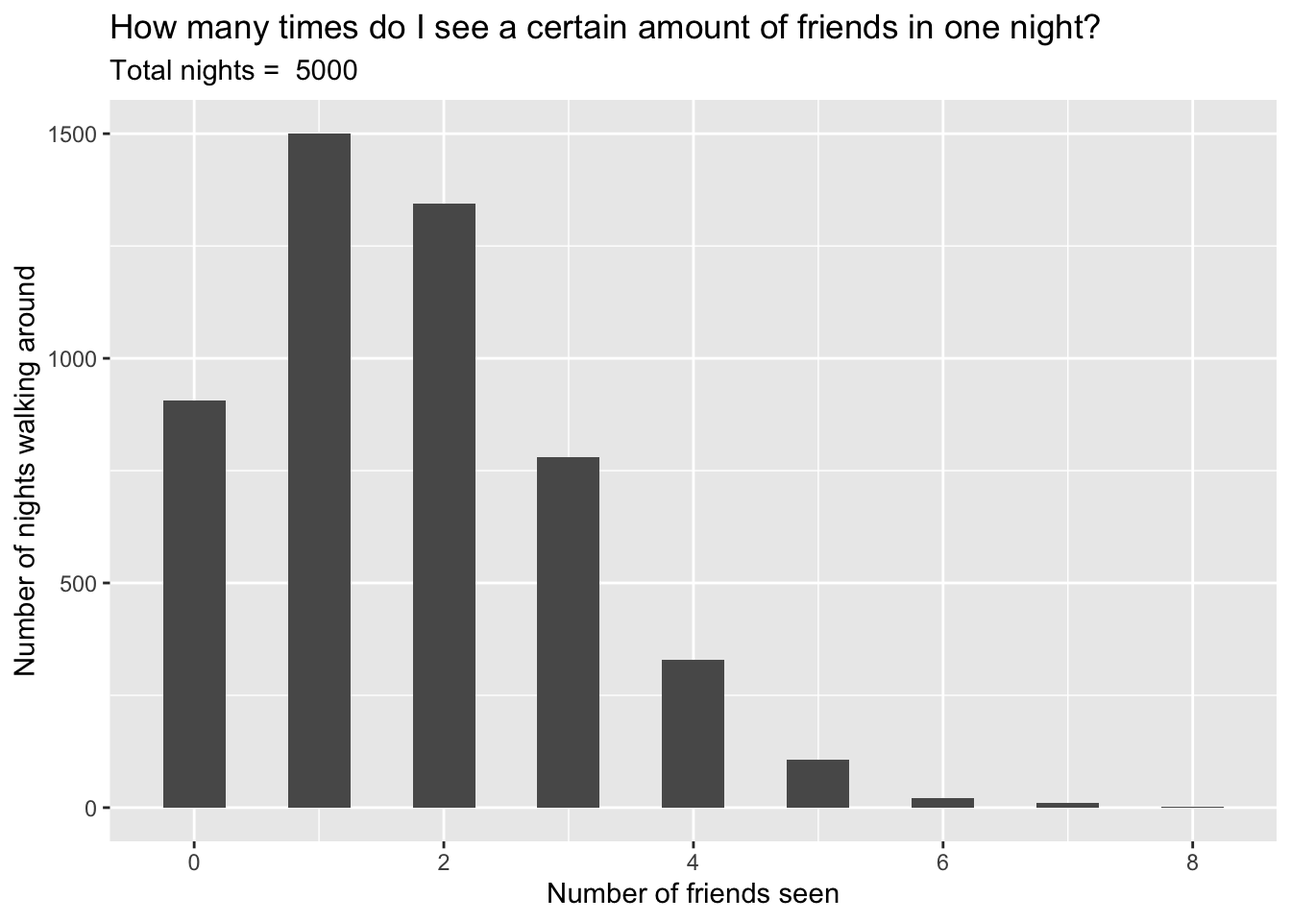
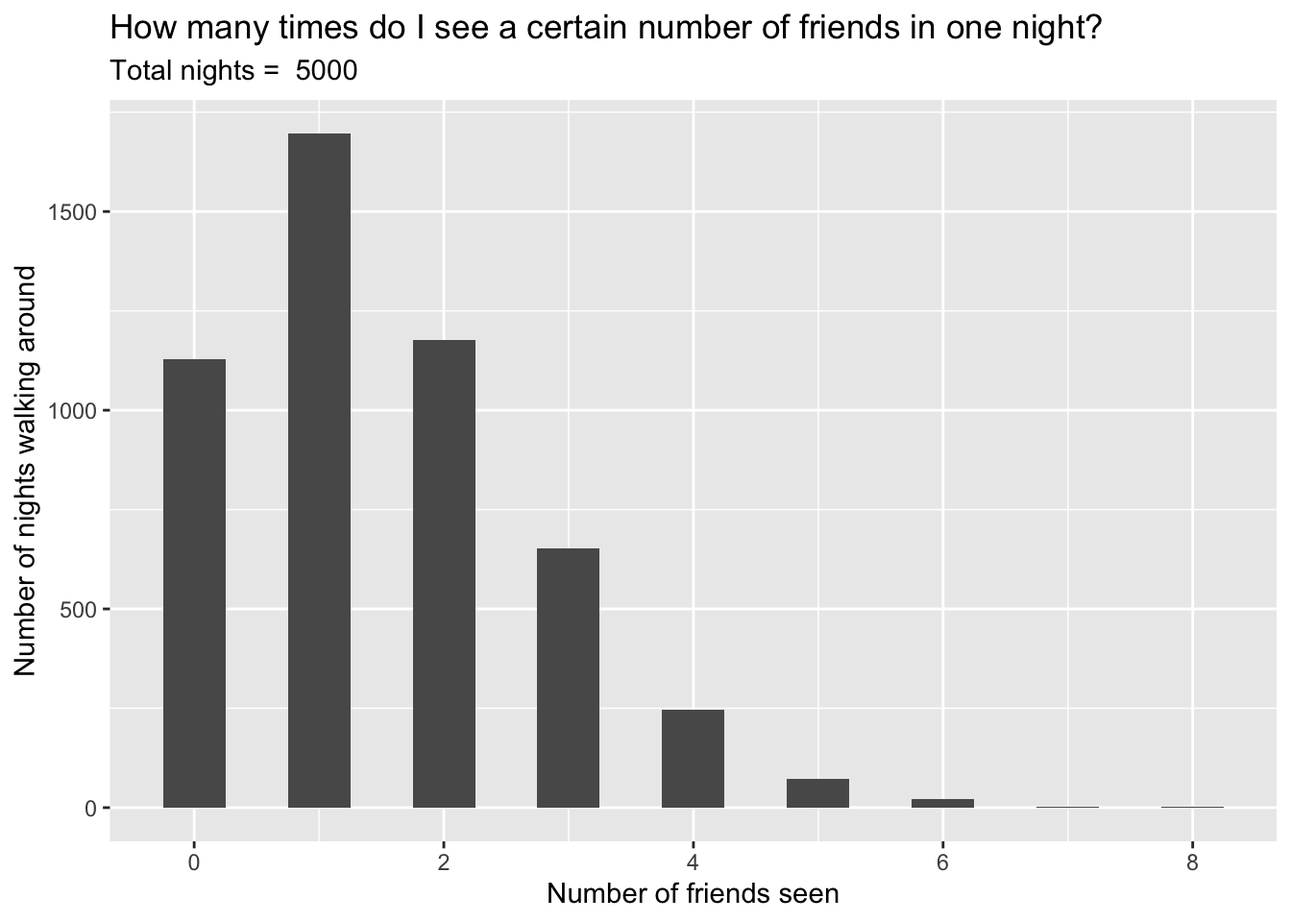
After first edits for project 6

diff --git a/docs/Ethics.html b/docs/Ethics.html
@@ -173,20 +173,20 @@ ul.task-list li input[type="checkbox"] {
 
 <ol type="1">
 <li><p>Describe the example / scenario as if to someone who is not at all familiar with the setting. In particular, it should be clear both what is the data science component and what is the ethical dilemma.</p>
-<p>Priyanga Gunarathne, Huaxia Rui and Abraham Seidmann published a paper that claimed that airline social media representatives respond less to Twitter users when they can see that their profile picture depicts a black person. Their methods involved taking all Tweets from 2014 to 2015 that mentioned any major US airline, running the Tweets’ profile pictures through an algorithm that returned either “no face”, or tells you what race each face is, creating and training a new algorithm that predicts people’s race based on their tweets, and measuring the response rate of customer service agents depending on the race depicted in the profile is or the race predicted by all of the past tweets. The authors found that people with profile pictures that had a black person in them were 12% less likely to receive customer service through Twitter than people who had other races in their profile picture. They also found that when the person did not have a profile picture, their race, as detected by their tweet-scraping algorithm, did not have an effect on the rate at which people received customer service through Twitter. Creating the algorithm that predicts people’s race based on their tweets creates an ethical dilemma, even though the authors of this study were using the algorithm to point out an explicit case of business-to-customer racism. Algorithms like these could also be used to discriminate against people or show people different prices for items based on their social media activity. The study concluded by suggesting that social media customer service teams hide people’s profile pictures when they are doing their jobs.</p></li>
+<p>Priyanga Gunarathne, Huaxia Rui and Abraham Seidmann published a paper that claimed that airline social media representatives respond less to Twitter users when they can see that their profile picture depicts a black person (Gunarathne, et al.&nbsp;2022). Their methods involved taking all Tweets from 2014 to 2015 that mentioned any major US airline, running the Tweets’ profile pictures through an algorithm that returned either “no face”, or tells you what race each face is, creating and training a new algorithm that predicts people’s race based on their tweets, and measuring the response rate of customer service agents depending on the race depicted in the profile is or the race predicted by all of the past tweets. The authors found that people with profile pictures that had a black person in them were 12% less likely to receive customer service through Twitter than people who had other races in their profile picture (Gunarathne, et al.&nbsp;2022). They also found that when the person did not have a profile picture, their race, as detected by their tweet-scraping algorithm, did not have an effect on the rate at which people received customer service through Twitter (Gunarathne, et al.&nbsp;2022). This analysis suggests that race-specific language did not influence customer service agents’ decisions to serve certain people, but profile pictures did. Creating the algorithm that predicts people’s race based on their tweets creates an ethical dilemma, even though the authors of this study were using the algorithm to point out an explicit case of business-to-customer racism. Algorithms like these could also be used to discriminate against people or show people different prices for items based on their social media activity. The study concluded by suggesting that social media customer service teams hide people’s profile pictures when responding to people on social media (Gunarathne, et al.&nbsp;2022).</p></li>
 <li><p>Respond to at least 4 of the items below (from the list of questions or the Data Values and Principles Manifesto). Four separate paragraphs that explain both the issue (e.g., consent) and how the issue played out in the data science example. Note: totally fine if there are items that were done <em>well</em> in your example.</p>
 <ul>
 <li><p>What is the permission structure for using the data? Was it followed?</p>
-<p>It is important that anyone using data from online follows the correct permission structures for collecting and publishing the data. Permission structures for using data are in place because they give everyone who is implicated in the data the privacy rights they believe they have when they publish data to a website. The authors collected data from Twitter from 2014 and 2015. Twitter’s 2014 Terms of Service document states that anyone who wants to use data from Twitter has to access it through Twitter’s API, and does not lay out any clear guidelines for what data can and cannot be used. Therefore, if the data was collected through Twitter’s API, then the authors did not break Twitter’s permission structure for collecting data. Furthermore, Twitter’s 2014 Terms of Service state that anything that you post on Twitter is “available to the rest of the world” (Twitter 2014). However, by the time this paper was submitted to be published, Twitter’s End User License Agreement stated that it was prohibited to “utilize the Twitter Content to derive or obtain non-public information of individual Twitter users” (Twitter 2020). This is exactly what these authors did by inferring people’s races by running their tweets through an algorithm.</p></li>
+<p>It is important that anyone using data from online follows the correct permission structures for collecting and publishing the data. Permission structures for using data are in place because they give everyone who is implicated in the data the privacy rights they believe they have when they publish data to a website. The authors collected data from Twitter from 2014 and 2015. Twitter’s 2014 Terms of Service document states that anyone who wants to use data from Twitter has to access it through Twitter’s API, and does not lay out any clear guidelines for what data can and cannot be used (Twitter 2014). Therefore, if the data was collected through Twitter’s API, then the authors did not break Twitter’s permission structure for collecting data. Furthermore, Twitter’s 2014 Terms of Service state that anything that you post on Twitter is “available to the rest of the world” (Twitter 2014). However, by the time this paper was submitted to be published, Twitter’s End User License Agreement stated that it was prohibited to “utilize the Twitter Content to derive or obtain non-public information of individual Twitter users” (Twitter 2020). This is exactly what these authors did by inferring people’s races by running their tweets through an algorithm.</p></li>
 <li><p>What was the data collection process? Were the observations collected ethically? Are there missing observations?</p>
-<p>In this study, the authors collected publically available Tweet and profile picture data from Twitter. The authors do not mention how they got this data, but if they were following Twitter’s terms of service, they would have had to get it using Twitter’s API. The way that these people collected this data could be seen as ethical since by posting to Twitter and making a Twitter account, any user is expected to know that anything they put there will be able to be seen by the entire world. In general, it is important to ethically collect data, since many people could be putting personal information into places and not know that it will be used for data analysis purposes. For example, collecting data from someone with the purposes of using it for a raffle and then using that data to create an email list could be problematic since the people who signed up with their personal information did not know they were signing up for promotional emails.</p></li>
+<p>In this study, the authors collected publically available Tweet and profile picture data from Twitter (Gunarathne, et al.&nbsp;2022). The authors do not mention how they got this data, but if they were following Twitter’s terms of service, they would have had to get it using Twitter’s API. The way that these people collected this data could be seen as ethical since by posting to Twitter and making a Twitter account, any user is expected to know that anything they put there will be able to be seen by the entire world. In general, it is important to ethically collect data, since many people could be putting personal information into places and not know that it will be used for data analysis purposes. For example, collecting data from someone with the purposes of using it for a raffle and then using that data to create an email list could be problematic since the people who signed up with their personal information did not know they were signing up for promotional emails.</p></li>
 <li><p>Is the data identifiable? All of it? Some of it? In what way? Are the data sufficiently anonymized or old to be free of ethical concerns? Is anonymity guaranteed?</p>
-<p>The study did not publish anyone’s Twitter profiles or names, so I would say it is sufficiently anonymized. In this case, anonymizing data is helpful since it does not directly tie anyone’s travel patterns, calculated race, or any other personal information to this study or to any complaints they have made on Twitter. On Twitter, anonymity is not necessarily guaranteed, but people should be free to post on Twitter without fear of their tweets being used to create a racial profile of them. In general, anonymizing data is important because it makes sure that people do not see direct personal damage or harm from any data that is being published.</p></li>
+<p>The study did not publish anyone’s Twitter profiles or names (Gunarathne, et al.&nbsp;2022), so I would say it is sufficiently anonymized. In this case, anonymizing data is helpful since it does not directly tie anyone’s travel patterns, calculated race, or any other personal information to this study or to any complaints they have made on Twitter. On Twitter, anonymity is not necessarily guaranteed, but people should be free to post on Twitter without fear of their tweets being used to create a racial profile of them. In general, anonymizing data is important because it makes sure that people do not see direct personal damage or harm from any data that is being published.</p></li>
 <li><p>Should race be used as a variable? Is it a proxy for something else (e.g., amount of melanin in the skin, stress of navigating microaggressions, zip-code, etc.)? What about gender?</p>
-<p>The issue of using race as a variable is an interesting one to consider, but since it effects many people’s day-to-day lives, I think it should be used as a variable. In this study, it was important that race was being used as a variable since the study proved that US airlines’ social media customer service teams were discriminating against black people. Generally, race should be used as a variable in studies, since it would be difficult to study racism against people if race is not being used as a variable.</p></li>
+<p>The issue of using race as a variable is an interesting one to consider, but since it effects many people’s day-to-day lives, I think it should be used as a variable. In this study, it was important that race was being used as a variable since the study strongly suggested that US airlines’ social media customer service teams were discriminating against black people. Generally, race should be used as a variable in studies, since it would be difficult to study racism against people if race is not being used as a variable.</p></li>
 </ul></li>
 <li><p>Given what you described in #3 (above), summarize by explaining why it matters. Who benefits? Who is neglected or harmed? Were the ethical violations in the interest of profit? Surveillance? Power?</p>
-<p>The conclusion that social media customer service agents should not be able to see people’s profile pictures when they are helping people is a good recommendation, especially since the authors found racial discrimination in the way that people were being helped. However, this conclusion could have been reached in a number of ways, many of which did not have to involve creating and training a brand-new race prediction algorithm. The authors also claimed that they trained the race prediction algorithm on 2,000 Tweets, and did not mention whether the people who were used in training the algorithm had any say over whether they were used to train this algorithm or not. This algorithm could possibly be used in the future to predict people’s races from their tweets and then use that prediction for nefarious purposes. The data and algorithm in this case were used to benefit black people and stop racial discrimination by companies. However, the authors should have been aware of the fact that creating a new race prediction algorithm for the sake of academic rigor has its drawbacks and could take away from marginalized communities.</p></li>
+<p>The conclusion that social media customer service agents should not be able to see people’s profile pictures when they are helping people is a good recommendation, especially since the authors found racial discrimination in the way that people were being helped. However, this conclusion could have been reached in a number of ways, many of which did not have to involve creating and training a brand-new race prediction algorithm. The authors also claimed that they trained the race prediction algorithm on 2,000 Tweets, and did not mention whether the people who were used in training the algorithm had any say over whether they were used to train this algorithm or not (Gunarathne, et al.&nbsp;2022). This algorithm could possibly be used in the future to predict people’s races from their tweets and then use that prediction for nefarious purposes. The data and algorithm in this case were used to benefit black people and stop racial discrimination by companies. However, the authors should have been aware of the fact that creating a new race prediction algorithm for the sake of academic rigor has its drawbacks and could take away from marginalized communities.</p></li>
 </ol>
 <p>Citations:</p>
 <p>Gina Mantica. “Racial Discrimination of Airline Customers on Twitter.” Boston University, 10 Nov.&nbsp;2021, <a href="https://www.bu.edu/hic/2021/11/10/racial-discrimination-of-airline-customers-on-twitter/" class="uri">https://www.bu.edu/hic/2021/11/10/racial-discrimination-of-airline-customers-on-twitter/</a>.</p>

diff --git a/docs/Probability.html b/docs/Probability.html
@@ -206,8 +206,8 @@ pre > code.sourceCode > span > a:first-child::before { text-decoration: underlin
 </header>
 
 
-<p>This project is inspired by a walk I took on last Saturday night. That night, I chose to walk around the 5Cs for around 3 hours, and I ran into around 8 of my close friends and had a lot of fun. As I walked, I ran into different sized groups of people, sometimes I would pass no one and sometimes I would pass huge groups of people.</p>
-<p>I chose to model the group sizes using an exponentially distributed set of random numbers with a rate of 0.25 since I approximate that I would run into an average of 4 people per minute.</p>
+<p>This project is inspired by a walk I took on last Saturday night. That night, I chose to walk around the 5Cs for around 3 hours, and I ran into around 8 of my close friends and had a lot of fun. As I walked, I ran into different sized groups of people, sometimes I would pass no one and sometimes I would pass huge groups of people. My goal for this assignment is to answer the question, “What is the probability that I run into ‘X’ number of friends on a given night of walking around the 5Cs?”. I then want to use this calculation to see whether my Saturday night where I ran into 8 people could have happened randomly or if there were external factors that played into the number of friends that I saw.</p>
+<p>I chose to model the group sizes using a discrete exponentially distributed set of random numbers with a rate of 0.25 since I approximate that I would run into an average of 4 people per minute.</p>
 <div class="cell">
 <details class="code-fold">
 <summary>Show the code</summary>
@@ -231,7 +231,7 @@ pre > code.sourceCode > span > a:first-child::before { text-decoration: underlin
 </div>
 </div>
 </div>
-<p>This plot shows how many times I see a certain amount of people each minute if I walk around for 180 minutes. It shows that in this case, I would most commonly see 0 people per minute during my walk, followed by 1 people per minute, then 2 people per minute.</p>
+<p>This plot shows how many times I see a certain number of people each minute if I walk around for 180 minutes. It shows that in this case, I would most commonly see 0 people per minute during my walk, followed by 1 people per minute, then 2 people per minute.</p>
 <p>Each person in each group of people I pass gets assigned a random number which indicates their closeness to me. I say that I am equally likely to see anyone from my closest friend (1) to my least close friend at the 5Cs (6000). For example, if I passed 2 people in the same minute (the randomly generated exponentially distributed number from before), my 5th closest friend and my 16th closest friend, that minute would be given the vector (5, 16). Then, I take the random numbers that have been generated for each minute and put them into one long vector, basically the vector of people I have seen throughout the entire night.</p>
 <div class="cell">
 <details class="code-fold">
@@ -239,7 +239,7 @@ pre > code.sourceCode > span > a:first-child::before { text-decoration: underlin
 <div class="sourceCode cell-code" id="cb2"><pre class="sourceCode r code-with-copy"><code class="sourceCode r"><span id="cb2-1"><a href="#cb2-1" aria-hidden="true" tabindex="-1"></a><span class="co">#pass random people walking around the 5Cs</span></span>
 <span id="cb2-2"><a href="#cb2-2" aria-hidden="true" tabindex="-1"></a>start_walking_for <span class="ot">&lt;-</span> <span class="cf">function</span>(number_of_minutes, how_close){</span>
 <span id="cb2-3"><a href="#cb2-3" aria-hidden="true" tabindex="-1"></a>  people_passed <span class="ot">&lt;-</span> <span class="fu">map_dbl</span>(<span class="dv">1</span><span class="sc">:</span>number_of_minutes, <span class="cf">function</span>(x){</span>
-<span id="cb2-4"><a href="#cb2-4" aria-hidden="true" tabindex="-1"></a>    <span class="fu">round</span>(<span class="fu">rexp</span>(<span class="dv">1</span>, exprate))}) <span class="co">#vector of the number of people I pass every minute</span></span>
+<span id="cb2-4"><a href="#cb2-4" aria-hidden="true" tabindex="-1"></a>    <span class="fu">floor</span>(<span class="fu">rexp</span>(<span class="dv">1</span>, exprate))}) <span class="co">#vector of the number of people I pass every minute</span></span>
 <span id="cb2-5"><a href="#cb2-5" aria-hidden="true" tabindex="-1"></a>  list_of_people <span class="ot">&lt;-</span> <span class="fu">map</span>(people_passed, <span class="cf">function</span>(x){<span class="fu">round</span>(<span class="fu">runif</span>(x, <span class="at">min =</span> <span class="dv">1</span>, <span class="at">max =</span> <span class="dv">6000</span>))})</span>
 <span id="cb2-6"><a href="#cb2-6" aria-hidden="true" tabindex="-1"></a>  vector_of_people <span class="ot">&lt;-</span> <span class="fu">unlist</span>(list_of_people) <span class="co">#Time steps do not matter, so it doesn't matter if I see someone in minute 1 or minute 156.</span></span>
 <span id="cb2-7"><a href="#cb2-7" aria-hidden="true" tabindex="-1"></a>  <span class="fu">sum</span>(vector_of_people <span class="sc">&lt;=</span> how_close) <span class="co">#How many times do I see someone who is my close friend?</span></span>
@@ -260,7 +260,7 @@ pre > code.sourceCode > span > a:first-child::before { text-decoration: underlin
 <span id="cb3-7"><a href="#cb3-7" aria-hidden="true" tabindex="-1"></a><span class="fu">ggplot</span>(simulation) <span class="sc">+</span></span>
 <span id="cb3-8"><a href="#cb3-8" aria-hidden="true" tabindex="-1"></a>  <span class="fu">geom_histogram</span>(<span class="fu">aes</span>(<span class="at">x =</span> friends_seen), <span class="at">binwidth =</span> <span class="fl">0.5</span>) <span class="sc">+</span></span>
 <span id="cb3-9"><a href="#cb3-9" aria-hidden="true" tabindex="-1"></a>  <span class="fu">labs</span>(</span>
-<span id="cb3-10"><a href="#cb3-10" aria-hidden="true" tabindex="-1"></a>    <span class="at">title =</span> <span class="st">"How many times do I see a certain amount of friends in one night?"</span>,</span>
+<span id="cb3-10"><a href="#cb3-10" aria-hidden="true" tabindex="-1"></a>    <span class="at">title =</span> <span class="st">"How many times do I see a certain number of friends in one night?"</span>,</span>
 <span id="cb3-11"><a href="#cb3-11" aria-hidden="true" tabindex="-1"></a>    <span class="at">subtitle =</span> <span class="fu">paste</span>(<span class="st">"Total nights = "</span>, nights),</span>
 <span id="cb3-12"><a href="#cb3-12" aria-hidden="true" tabindex="-1"></a>    <span class="at">x =</span> <span class="st">"Number of friends seen"</span>,</span>
 <span id="cb3-13"><a href="#cb3-13" aria-hidden="true" tabindex="-1"></a>    <span class="at">y =</span> <span class="st">"Number of nights walking around"</span></span>
@@ -274,9 +274,9 @@ pre > code.sourceCode > span > a:first-child::before { text-decoration: underlin
 </div>
 </div>
 </div>
-<p>This plot shows that it is very unlikely to have a night like my Saturday night where I saw 8 of my close friends. This means that either I am more likely to see my friends than non-friends (which is true since I knew where they generally were that night and used Find My once to find a friend), that I saw more people on my walk than I estimated, or that I am closer with more people than I estimated.</p>
-<p>The plot also shows that I am most likely to see one friend on a given 3-hour walk, but for about 900 of my 5000 simulated walks, I see no friends.</p>
-<p>To simulate my random night walks around the 5Cs, I generated randomly sized groups of people that I saw every minute that usually ranged from 0 to around 18 people. Then, I gave each person in that group a random “closeness score” to me, which indicated how well I knew them. Then, I counted how many times I ran into people that were a certain degree of closeness to me, and ran that simulation many times to determine what the most likely outcome of a night of randomly walking around the 5C campus was (in places where other people also go).</p>
+<p>This plot shows that it is very unlikely to have a night like my Saturday night where I saw 8 of my close friends. This means that either I was more likely to see my friends than non-friends on Saturday (which is true since I knew where they generally were that night and used Find My once to find a friend), that I saw more people on my walk than I estimated, or that I am closer with more people than I estimated.</p>
+<p>The plot also shows that I am most likely to see one friend on a given 3-hour walk, but for about 1100 of my 5000 simulated walks, I see no friends.</p>
+<p>To simulate my weekend night walks around the 5Cs, I generated randomly sized groups of people that I saw every minute that usually ranged from 0 to around 18 people. Then, I gave each person in that group a random “closeness score” to me, which indicated how well I knew them. Then, I counted how many times I ran into people that were a certain degree of closeness to me, and ran that simulation many times to determine what the most likely outcome of a night of randomly walking around the 5C campus was (in places where other people also go).</p>
 <p>One way that this model could be improved is to account for my arrival to points of interest where many people congregate at once like Jay’s Place, the Hub, or parties. Another way that this simulation could be improved is to account for the fact that most of my friends are friends with each other, so they are more likely to be traveling in a group together than dispersed among many groups of people.</p>
 
 

diff --git a/docs/Text_analysis.html b/docs/Text_analysis.html
@@ -6,8 +6,7 @@
 
 <meta name="viewport" content="width=device-width, initial-scale=1.0, user-scalable=yes">
 
-<meta name="author" content="LA Metro">
-<meta name="dcterms.date" content="2025-10-05">
+<meta name="dcterms.date" content="2025-10-08">
 <meta name="description" content="An analysis of General Transit Feed Specification bus stop data from LA Metro">
 
 <title>Text Analysis – Project Website with Art</title>
@@ -197,17 +196,11 @@ pre > code.sourceCode > span > a:first-child::before { text-decoration: underlin
 
 <div class="quarto-title-meta column-page">
 
-    <div>
-    <div class="quarto-title-meta-heading">Author</div>
-    <div class="quarto-title-meta-contents">
-             <p>LA Metro </p>
-          </div>
-  </div>
     
     <div>
     <div class="quarto-title-meta-heading">Published</div>
     <div class="quarto-title-meta-contents">
-      <p class="date">October 5, 2025</p>
+      <p class="date">October 8, 2025</p>
     </div>
   </div>
   
@@ -219,6 +212,7 @@ pre > code.sourceCode > span > a:first-child::before { text-decoration: underlin
 </header>
 
 
+<p>This project reads a spreadsheet that contains the names of every LA Metro bus stop in Los Angeles and counts how many of them are on a specific street. Most of the stop names in LA Metro’s spreadsheet are written like Street / Cross Street, so I used regular expressions to separate the names and count how many of them are on each street. I also counted the length of the every stop’s name in characters and plotted it on a histogram.</p>
 <div class="cell">
 <details class="code-fold">
 <summary>Show the code</summary>
@@ -329,10 +323,10 @@ pre > code.sourceCode > span > a:first-child::before { text-decoration: underlin
 </div>
 <p>This table was created in the same way as the table above and then filtered to only count the numbered streets.</p>
 <p>This analysis comes from publicly-available GTFS data provided by LA Metro.</p>
-<ul>
-<li>Data Source: <a href="https://gitlab.com/LACMTA/gtfs_bus/-/tree/weekly-updated-service" class="uri">https://gitlab.com/LACMTA/gtfs_bus/-/tree/weekly-updated-service</a></li>
-<li>Data Authors: <a href="https://developer.metro.net/gtfs-schedule-data/" class="uri">https://developer.metro.net/gtfs-schedule-data/</a></li>
-</ul>
+<p>Data Source:</p>
+<p>LA Metro. “GTFS Schedule Data” <a href="https://developer.metro.net/gtfs-schedule-data/" class="uri">https://developer.metro.net/gtfs-schedule-data/</a></p>
+<p>Repository:</p>
+<p>LA Metro. “LA Metro Bus GTFS.” October 5, 2025. <a href="https://gitlab.com/LACMTA/gtfs_bus/-/tree/weekly-updated-service" class="uri">https://gitlab.com/LACMTA/gtfs_bus/-/tree/weekly-updated-service</a></p>
 
 
 

diff --git a/docs/Water_Insecurity.html b/docs/Water_Insecurity.html
@@ -6,8 +6,7 @@
 
 <meta name="viewport" content="width=device-width, initial-scale=1.0, user-scalable=yes">
 
-<meta name="author" content="Niha Pereira">
-<meta name="dcterms.date" content="2025-01-28">
+<meta name="dcterms.date" content="2025-09-24">
 <meta name="description" content="Analysis of Water Insecurity data from TidyTuesday">
 
 <title>Water Insecurity – Project Website with Art</title>
@@ -197,17 +196,11 @@ pre > code.sourceCode > span > a:first-child::before { text-decoration: underlin
 
 <div class="quarto-title-meta column-page">
 
-    <div>
-    <div class="quarto-title-meta-heading">Author</div>
-    <div class="quarto-title-meta-contents">
-             <p>Niha Pereira </p>
-          </div>
-  </div>
     
     <div>
     <div class="quarto-title-meta-heading">Published</div>
     <div class="quarto-title-meta-contents">
-      <p class="date">January 28, 2025</p>
+      <p class="date">September 24, 2025</p>
     </div>
   </div>
   
@@ -248,8 +241,11 @@ pre > code.sourceCode > span > a:first-child::before { text-decoration: underlin
 </div>
 </div>
 </div>
-<p>Citation:</p>
+<p>Citations:</p>
+<p>Original Data:</p>
 <p>Elmera Azadpour and Cee Nell. <em>Mapping Water Insecurity in R with Tidycensus</em>. 9 Dec.&nbsp;2024, <a href="https://waterdata.usgs.gov/blog/acs-maps/" class="uri">https://waterdata.usgs.gov/blog/acs-maps/</a>.</p>
+<p>GitHub Repo:</p>
+<p>Niha Pereira, January 28, 2025 <a href="https://github.com/rfordatascience/tidytuesday/blob/main/data/2025/2025-01-28/readme.md" class="uri">https://github.com/rfordatascience/tidytuesday/blob/main/data/2025/2025-01-28/readme.md</a></p>
 
 
 

diff --git a/docs/CDC_Data.html b/docs/CDC_Data.html
@@ -6,8 +6,7 @@
 
 <meta name="viewport" content="width=device-width, initial-scale=1.0, user-scalable=yes">
 
-<meta name="author" content="Jon Harmon">
-<meta name="dcterms.date" content="2025-02-11">
+<meta name="dcterms.date" content="2025-09-24">
 <meta name="description" content="Analysis of CDC data from TidyTuesday">
 
 <title>CDC Data – Project Website with Art</title>
@@ -197,17 +196,11 @@ pre > code.sourceCode > span > a:first-child::before { text-decoration: underlin
 
 <div class="quarto-title-meta column-page">
 
-    <div>
-    <div class="quarto-title-meta-heading">Author</div>
-    <div class="quarto-title-meta-contents">
-             <p>Jon Harmon </p>
-          </div>
-  </div>
     
     <div>
     <div class="quarto-title-meta-heading">Published</div>
     <div class="quarto-title-meta-contents">
-      <p class="date">February 11, 2025</p>
+      <p class="date">September 24, 2025</p>
     </div>
   </div>
   
@@ -247,8 +240,11 @@ pre > code.sourceCode > span > a:first-child::before { text-decoration: underlin
 </div>
 </div>
 </div>
-<p>Citation:</p>
+<p>Citations:</p>
+<p>Original Data:</p>
 <p>“Files for 20250128-Cdc-Datasets.” <em>Internet Archive</em>, <a href="https://archive.org/download/20250128-cdc-datasets" class="uri">https://archive.org/download/20250128-cdc-datasets</a>.</p>
+<p>GitHub Repo:</p>
+<p>Jon Harmon, February 11, 2025. <a href="https://github.com/rfordatascience/tidytuesday/blob/main/data/2025/2025-02-11/readme.md" class="uri">https://github.com/rfordatascience/tidytuesday/blob/main/data/2025/2025-02-11/readme.md</a></p>
 
 
 
